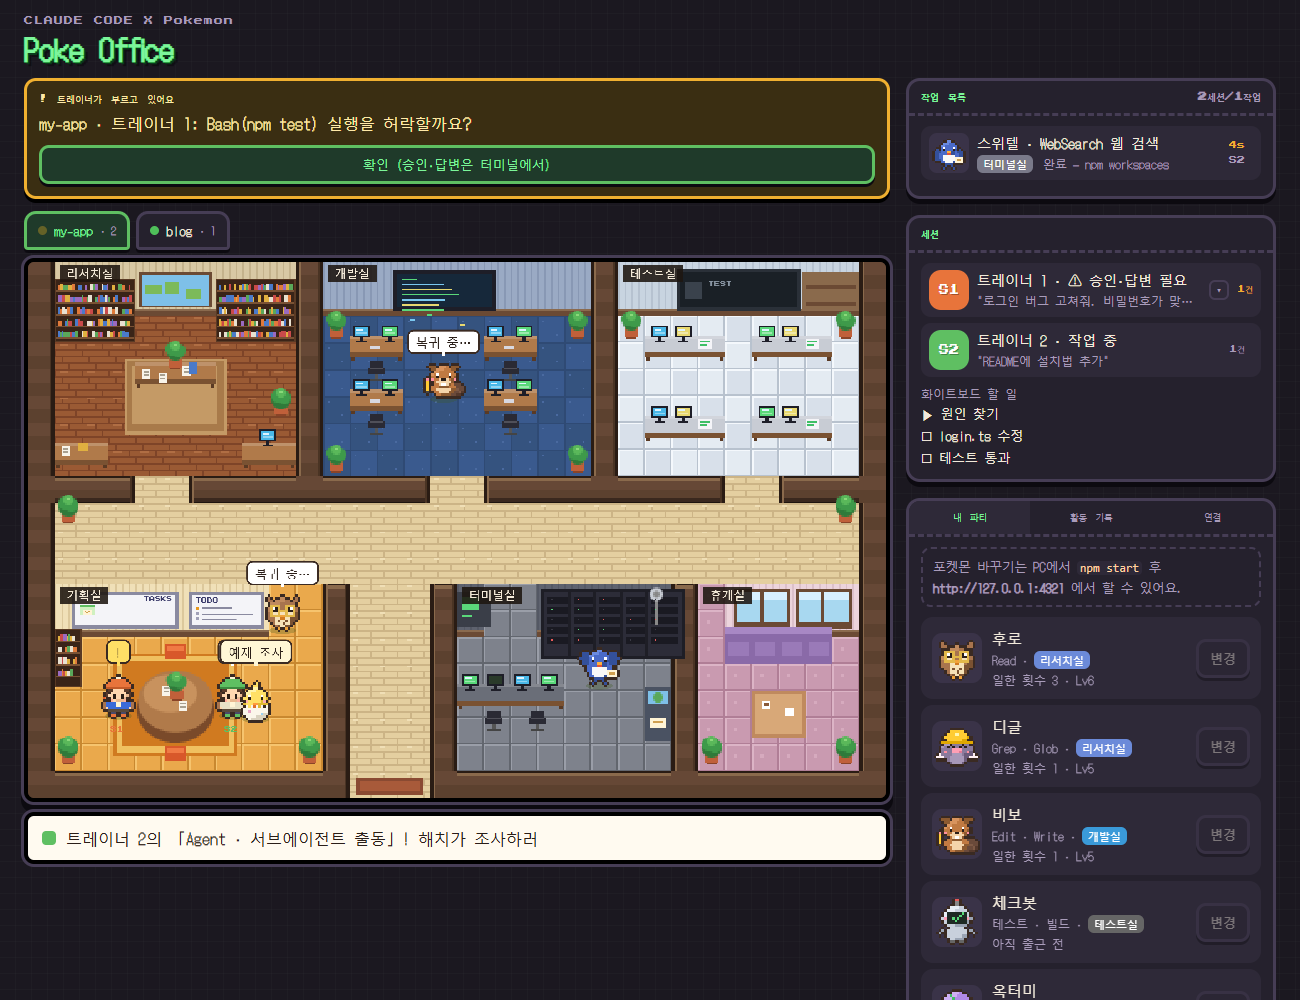
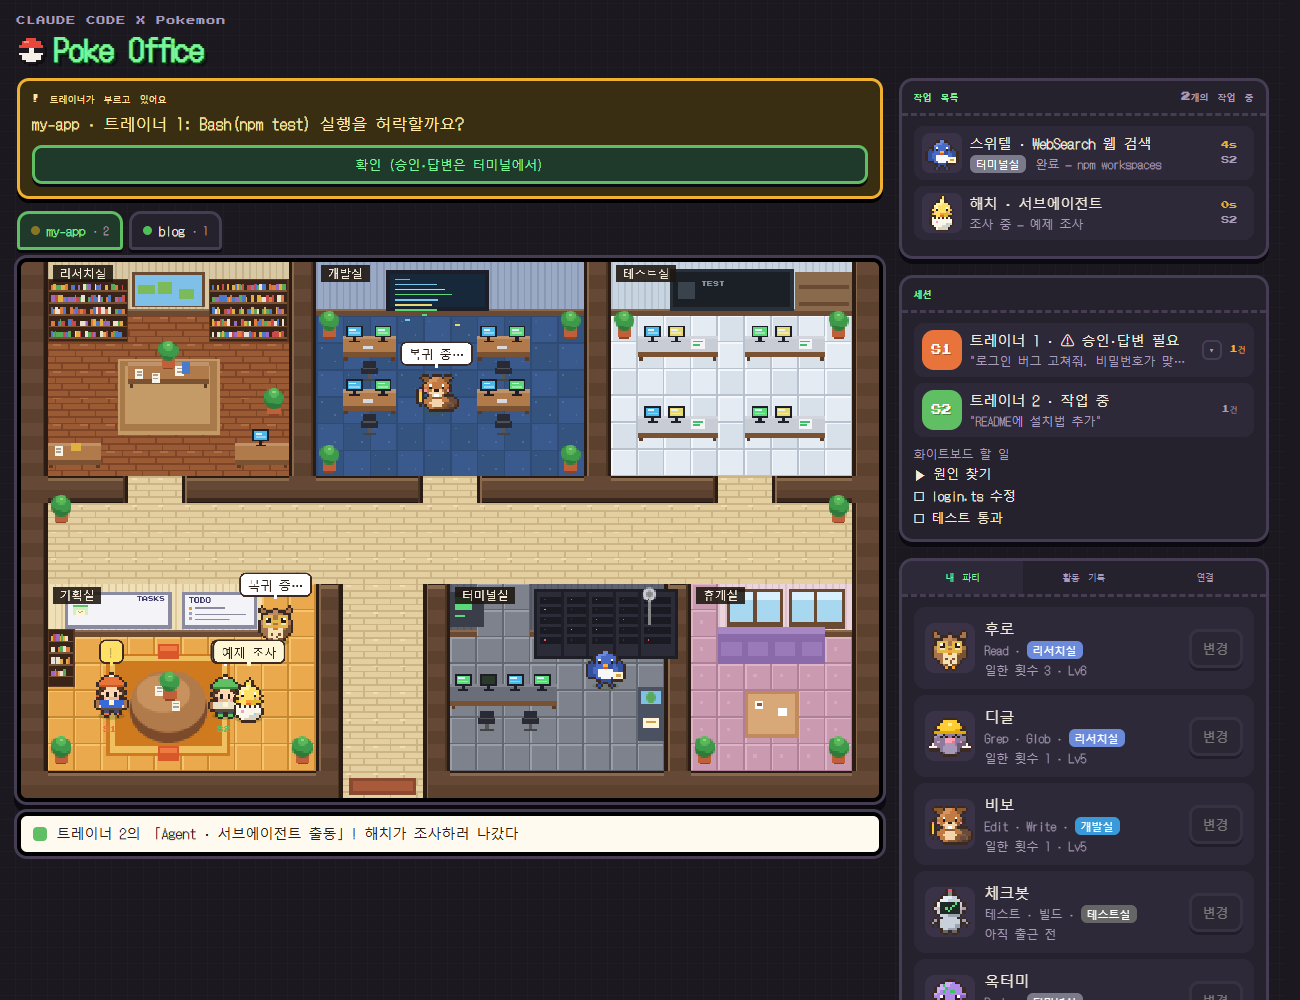
feat: room hover cursor and tooltips, title Poké Ball, simpler status text, fix layout shift
- Hovering a room highlights it with a blinking corner cursor and shows a game-style tooltip
- Dialog strip uses a smaller font and shows the more button as soon as text overflows
- Reserve scrollbar space so opening popups or switching tabs no longer shifts the page
- Flat tab buttons no longer move when pressed
- Remove the LIVE chip, add a Poké Ball before the title
- Shorter wording: 'N개의 작업 중', '세션 ID', sprite status only

Changed region(s): [[0.0, 0.0, 0.9846, 1.0], [0.0923, 0.465, 0.1538, 0.527]]

diff --git a/index.html b/index.html
@@ -9,6 +9,7 @@
 <style>
 :root{--bg:#1b1820;--panel:#25212d;--panel2:#2e2938;--line:#463d55;--ink:#f2eadb;--quiet:#a99cba;--mint:#7cf59a;--leaf:#5fbf62;--amber:#f0b030;--red:#ff6b6b;--blue:#6cc4ff;--shadow:#0c0a10;}
 *{box-sizing:border-box}
+html{scrollbar-gutter:stable}
 html,body{margin:0;background:var(--bg);color:var(--ink);font-family:'DotGothic16',system-ui,-apple-system,'Apple SD Gothic Neo','Noto Sans KR',sans-serif}
 body{background:repeating-linear-gradient(0deg,transparent 0 15px,rgba(255,255,255,.02) 15px 16px),repeating-linear-gradient(90deg,transparent 0 15px,rgba(255,255,255,.02) 15px 16px),var(--bg)}
 .wrap{max-width:1280px;margin:0 auto;padding:16px 14px 40px}
@@ -16,6 +17,7 @@ header{display:flex;align-items:flex-end;justify-content:space-between;gap:12px;
 .kicker{font-family:'Press Start 2P',monospace;font-size:9px;color:var(--quiet);letter-spacing:1px}
 h1{margin:6px 0 0;font-size:30px;line-height:1.15;font-weight:900;color:var(--mint);text-shadow:2px 2px 0 #0b3a1c,4px 4px 0 rgba(0,0,0,.4)}
 h1 span{color:var(--ink)}
+h1 .pball{width:.95em;height:.95em;margin-right:.3em;vertical-align:-.1em;filter:drop-shadow(2px 2px 0 rgba(0,0,0,.4))}
 .chip{font-family:'Press Start 2P',monospace;font-size:9px;padding:7px 10px;border:3px solid var(--line);border-radius:10px;background:var(--panel);color:var(--quiet)}
 .chip.live{color:var(--mint);border-color:var(--mint)}
 .grid{display:grid;grid-template-columns:minmax(0,1fr) 370px;gap:16px;align-items:start}
@@ -26,7 +28,7 @@ h1 span{color:var(--ink)}
 .dot{width:9px;height:9px;border-radius:50%;background:#bbb;display:inline-block}
 .dot.work{background:#4fbf5a}.dot.wait{background:#f0b020;animation:pulse 1s infinite}.dot.idle{background:#b8a890}
 @keyframes pulse{50%{opacity:.3}}
-#dlgBox{display:flex;align-items:center;gap:10px;min-width:0;margin-top:10px;min-height:52px;padding:10px 14px;background:#fffaf0;color:#2a1e18;border:4px solid #000;border-radius:10px;box-shadow:0 0 0 3px var(--line);font-size:16px;line-height:1.4}
+#dlgBox{display:flex;align-items:center;gap:10px;min-width:0;margin-top:10px;min-height:44px;padding:8px 12px;background:#fffaf0;color:#2a1e18;border:4px solid #000;border-radius:10px;box-shadow:0 0 0 3px var(--line);font-size:14px;line-height:1.4}
 #dlgDot{flex:none;width:14px;height:14px;border-radius:4px;background:transparent}
 #dlgText{flex:1;min-width:0;overflow:hidden;text-overflow:ellipsis;white-space:nowrap}
 #dlgBox .more{color:#6b5a48;border-color:#c8b89a}
@@ -35,6 +37,7 @@ canvas#office{display:block;width:100%;height:auto;image-rendering:pixelated;tou
 button{font-family:inherit;font-size:13px;color:var(--ink);background:var(--panel);border:3px solid var(--line);border-radius:10px;padding:7px 11px;cursor:pointer;box-shadow:0 3px 0 var(--shadow)}
 button:hover{border-color:#c4a874}
 button:active{transform:translateY(2px);box-shadow:0 1px 0 var(--shadow)}
+.tabs button:active,.more:active{transform:none}
 button.on{background:#1f3a2a;border-color:var(--leaf);color:var(--mint)}
 button.px{font-family:'Press Start 2P',monospace;font-size:9px}
 .panel{background:var(--panel);border:3px solid var(--line);border-radius:14px;box-shadow:0 5px 0 var(--shadow);overflow:hidden}
@@ -102,6 +105,9 @@ pre{font-size:11.5px;background:#14111a;border-radius:10px;padding:8px;overflow:
 .dexgrid button{display:flex;flex-direction:column;align-items:center;gap:1px;padding:6px 4px;font-size:12px;box-shadow:0 2px 0 var(--shadow)}
 .dexgrid button img{width:64px;height:64px;image-rendering:pixelated}
 .dexgrid .no{font-family:'Press Start 2P',monospace;font-size:7px;color:var(--quiet)}
+.tip{position:fixed;z-index:40;pointer-events:none;max-width:260px;padding:6px 10px;background:#fffaf0;color:#2a1e18;border:3px solid #2a1e18;border-radius:6px;box-shadow:0 0 0 2px #fffaf0,0 0 0 5px #4a4a5e,0 6px 0 5px rgba(0,0,0,.35);font-size:12.5px;line-height:1.5}
+.tip[hidden]{display:none}.tip b{font-size:13.5px}.tip .st{display:inline-block;margin-left:6px;padding:0 5px;border-radius:4px;font-size:11px;color:#fff}
+.tip small{display:block;margin-top:2px;color:#8a7a68;font-size:11px}
 footer{margin-top:18px;color:var(--quiet);font-size:12px;line-height:1.6}
 .speed{display:flex;gap:4px}
 </style>
@@ -111,9 +117,8 @@ footer{margin-top:18px;color:var(--quiet);font-size:12px;line-height:1.6}
   <header>
     <div>
       <div class="kicker">CLAUDE CODE X Pokemon</div>
-      <h1>Poke Office</h1>
+      <h1><svg class="pball" viewBox="0 0 12 12" shape-rendering="crispEdges" aria-hidden="true"><path fill="#1b1820" d="M4 0h4v1h2v1h1v2h1v4h-1v2h-1v1h-2v1H4v-1H2v-1H1V8H0V4h1V2h1V1h2z"/><path fill="#e8473b" d="M4 1h4v1h2v2h1v1H1V4h1V2h2z"/><path fill="#ff8a7a" d="M3 2h2v1H3z"/><path fill="#f4f0e8" d="M1 7h10v1h-1v2H8v1H4v-1H2V8H1z"/><path fill="#1b1820" d="M1 5h10v2H1z"/><path fill="#f4f0e8" d="M5 5h2v2H5z"/></svg>Poke Office</h1>
     </div>
-    <div class="chip" id="modeChip" style="display:none">LIVE</div>
   </header>
 
   <div class="grid">
@@ -174,6 +179,7 @@ footer{margin-top:18px;color:var(--quiet);font-size:12px;line-height:1.6}
       </section>
     </div>
   </div>
+  <div class="tip" id="tip" hidden></div>
   <div class="modal" id="modal" hidden><div class="mbox" role="dialog" aria-modal="true"><div class="mhead"><b id="mTitle"></b><button id="mClose" title="닫기">✕</button></div><div id="mExtra"></div><div class="mbody" id="mBody"></div></div></div>
   <footer>기본 몬스터·트레이너·사무실 그림은 이 프로젝트용 오리지널 픽셀 아트입니다. 포켓몬 스프라이트는 내려받은 앱에서 사용자가 직접 받아 이 PC에서만 씁니다.</footer>
 </div>
@@ -439,8 +445,16 @@ function drawMap(){buildGrid();
 }
 // 방 이름표: 늘리지 않고 화면 해상도로 직접 그려서 글자가 선명해요
 function drawLabels(){ctx.font=`${7*S}px "DotGothic16", sans-serif`;ctx.textBaseline='alphabetic';
-  Object.values(ROOMS).forEach(r=>{if(!r.ko)return;const x=px(r.x0*T+3),y=px((r.y0-r.face)*T+2),w=ctx.measureText(r.ko).width+8*S;
-    ctx.fillStyle='rgba(30,22,16,.88)';ctx.fillRect(x,y,w,10*S);ctx.fillStyle='#f4ead8';ctx.fillText(r.ko,x+4*S,y+8*S);});}
+  Object.entries(ROOMS).forEach(([k,r])=>{if(!r.ko)return;const x=px(r.x0*T+3),y=px((r.y0-r.face)*T+2),w=ctx.measureText(r.ko).width+8*S,on=k===hoverRoom;
+    ctx.fillStyle=on?'#f8d030':'rgba(30,22,16,.88)';ctx.fillRect(x,y,w,10*S);ctx.fillStyle=on?'#2a1e18':'#f4ead8';ctx.fillText(r.ko,x+4*S,y+8*S);});}
+// 마우스를 올린 방: 살짝 밝게 + 모서리 선택 커서가 깜빡깜빡 (포켓몬 메뉴 커서 느낌)
+let hoverRoom=null;
+function drawHover(){if(!hoverRoom||grab)return;const r=ROOMS[hoverRoom];const x0=r.x0*T,y0=(r.y0-r.face)*T,x1=(r.x1+1)*T,y1=(r.y1+1)*T;
+  ctx.fillStyle='rgba(255,248,220,.10)';ctx.fillRect(px(x0),px(y0),(x1-x0)*S,(y1-y0)*S);
+  const k=Math.floor(now.t/260)%2?1:3,L=9;
+  for(const [cx,cy,sx,sy] of [[x0,y0,1,1],[x1,y0,-1,1],[x0,y1,1,-1],[x1,y1,-1,-1]]){const ax=cx+sx*k,ay=cy+sy*k;
+    for(const [col,o] of [['#2a1e18',1],['#fff',0]]){ctx.fillStyle=col;const ox=ax+sx*o,oy=ay+sy*o;
+      ctx.fillRect(px(Math.min(ox,ox+sx*L)),px(Math.min(oy,oy+sy*2)),L*S,2*S);ctx.fillRect(px(Math.min(ox,ox+sx*2)),px(Math.min(oy,oy+sy*L)),2*S,L*S);}}}
 function animMap(t){
   for(let i=0;i<5;i++)for(let j=0;j<5;j++){const on=Math.sin(t/200+i*1.3+j*2.1)>0;ctx.fillStyle=on?(j%2?'#5ad87a':'#e85a5a'):'#3a3a44';ctx.fillRect(px(19*T+2+i*15.6+6),px(12.2*T+6+j*6),S,S);}
   for(let i=0;i<3;i++){ctx.fillStyle=['#5ad87a','#7ac8f0','#e8d870'][i];ctx.fillRect(px(13.6*T+5+((t/40+i*30)%40)),px(.3*T+26+i*3),3*S,S);}
@@ -565,8 +579,8 @@ const fmtSec=ms=>{const s=Math.max(0,Math.floor(ms/1000));return s<60?s+'s':Math
 function openModal(title,content,{cls='',extra=null}={}){const m=$('modal');m.className='modal '+cls;$('mTitle').textContent=title;
   const x=$('mExtra');x.innerHTML='';if(extra)x.appendChild(extra);const b=$('mBody');b.innerHTML='';b.scrollTop=0;
   if(typeof content==='string'){const pre=document.createElement('pre');pre.className='mtext';pre.textContent=content;b.appendChild(pre);}else b.appendChild(content);
-  m.hidden=false;document.body.style.overflow='hidden';}
-function closeModal(){$('modal').hidden=true;document.body.style.overflow='';pickRole=null;}
+  m.hidden=false;document.documentElement.style.overflow='hidden';}
+function closeModal(){$('modal').hidden=true;document.documentElement.style.overflow='';pickRole=null;}
 $('mClose').onclick=closeModal;$('modal').addEventListener('click',e=>{if(e.target.id==='modal')closeModal();});
 document.addEventListener('keydown',e=>{if(e.key==='Escape'&&!$('modal').hidden)closeModal();});
 // 잘린 글은 오른쪽 작은 ▾ 버튼 → 가운데 팝업으로 전체 보기
@@ -578,7 +592,7 @@ function fitMore(d,title,body,raw){const btn=d.querySelector('.more');if(!btn)re
 function renderSide(){renderWork();renderSessions();}
 function renderWork(){const t=towns.get(active);const el=$('workList');if(!el)return;
   const jobs=t?t.jobs:[];const subs=t?t.mons.filter(m=>m.role==='sub'&&m.state==='subwork'):[];
-  $('workSum').textContent=t?`${t.trainers.size}세션/${jobs.length+subs.length}작업`:'';
+  {const n=jobs.length+subs.length;$('workSum').textContent=n?`${n}개의 작업 중`:'';}
   if(!jobs.length&&!subs.length){el.innerHTML=`<div class="empty">지금 작업 중인 포켓몬이 없어요.<br><span style="font-size:12px">(Claude Code가 동작할 경우<br>자동으로 포켓몬이 일을 시작해요.)</span></div>`;return;}
   el.innerHTML='';
   const row=(img,a,b,room,since,tr,state,full)=>{const d=document.createElement('div');d.className='wrow';
@@ -596,7 +610,7 @@ function renderSessions(){const t=towns.get(active);const el=$('sessList');if(!e
     const st=tr.lounge&&tr.state==='idle'?'휴게실 · 내 차례':({idle:'대기 중',think:'작업 중',pin:'할 일 정리',wait:'⚠ 승인·답변 필요',sleep:'쉬는 중',arrive:'출근 중',leave:'퇴근 중'}[tr.state]||tr.state);
     const jobs=t.jobs.filter(j=>j.tr===tr).length;
     c.innerHTML=`<div class="sw" style="width:40px;height:40px;background:${HATS[tr.color][0]}">S${tr.no}</div><div class="txt"><div class="a"></div><div class="b"></div></div><button class="more" hidden title="더보기">▾</button><div class="tm" style="color:${tr.state==='wait'?'var(--amber)':'var(--quiet)'}">${jobs?jobs+'건':''}</div>`;
-    c.querySelector('.a').textContent=`${tname(tr)} · ${st}`;c.querySelector('.b').textContent=tr.prompt?`"${tr.prompt}"`:`세션 ${String(tr.id).slice(0,8)}`;el.appendChild(c);fitMore(c,`${tname(tr)} · ${st}`,tr.prompt?`보낸 프롬프트\n\n${tr.prompt}`:'',tr.prompt);});
+    c.querySelector('.a').textContent=`${tname(tr)} · ${st}`;c.querySelector('.b').textContent=tr.prompt?`"${tr.prompt}"`:`세션 ID: ${String(tr.id).slice(0,8)}`;el.appendChild(c);fitMore(c,`${tname(tr)} · ${st}`,tr.prompt?`보낸 프롬프트\n\n${tr.prompt}`:'',tr.prompt);});
   if(t.todos.length){const d=document.createElement('div');d.style.cssText='margin-top:8px;font-size:13px;line-height:1.7';d.innerHTML='<div class="muted" style="font-size:12px">화이트보드 할 일</div>';
     t.todos.forEach(td=>{const x=document.createElement('div');x.textContent=(td.s==='done'?'☑ ':td.s==='doing'?'▶ ':'☐ ')+td.text;if(td.s==='done')x.style.color='var(--quiet)';d.appendChild(x);});el.appendChild(d);}}
 setInterval(()=>{if(!paused)renderWork();},1000);
@@ -631,11 +645,8 @@ async function detectSource(){
     if(r.ok){const by=new Map();(await r.text()).split('\n').slice(1).forEach(l=>{const [id,lang,name]=l.split(',');if(!id||!name)return;const e=by.get(+id)||{id:+id,ko:'',en:''};if(lang==='3')e.ko=name;if(lang==='9')e.en=name;by.set(+id,e);});
       SRC.names=[...by.values()].sort((a,b)=>a.id-b.id);SRC.mode='remote';SRC.base='https://raw.githubusercontent.com/PokeAPI/sprites/master/sprites/pokemon/';}}catch{}}
   const el=$('srcState');
-  if(SRC.mode==='server')el.innerHTML=`<b style="color:var(--mint)">스프라이트 준비됨</b> · 이 PC에 받은 포켓몬 ${SRC.names?SRC.names.length:'?'}종. 역할 옆 <b>변경</b>으로 고르세요.`;
-  else if(SRC.mode==='remote')el.innerHTML='<b style="color:var(--mint)">GitHub에서 바로 불러오는 중</b> · 역할 옆 <b>변경</b>으로 고르세요.';
-  else if(SRC.server)el.innerHTML='<b style="color:var(--amber)">서버는 켜졌지만 스프라이트가 없어요.</b> 터미널에서 <code>npm run setup</code> 을 실행한 뒤 이 페이지를 새로고침하세요. 원인은 <code>npm run doctor</code> 로 볼 수 있어요.';
-  else if(location.protocol==='file:')el.innerHTML='<b style="color:var(--amber)">파일을 직접 열었어요.</b> 터미널에서 <code>npm start</code> 후 <b>http://127.0.0.1:4321</b> 로 열어야 포켓몬을 고를 수 있어요.';
-  else el.innerHTML='포켓몬 바꾸기는 PC에서 <code>npm start</code> 후 <b>http://127.0.0.1:4321</b> 에서 할 수 있어요.';}
+  el.innerHTML=SRC.mode!=='none'?'<b style="color:var(--mint)">스프라이트 준비됨</b>':'<b style="color:var(--red)">스프라이트를 불러오지 못했어요</b>';
+  el.style.display=SRC.mode!=='none'||SRC.server?'':'none';} // 서버 없이 연 데모 화면에서는 숨김
 const spriteUrl=(id,sh)=>SRC.base+(sh?'shiny/':'')+id+'.png';
 function buildPack(){const el=$('teamList');if(!el)return;el.innerHTML='';[...ROLES,'trainer'].forEach(r=>{const row=document.createElement('div');row.className='card'+(selected===r?' sel':'');
   const c=document.createElement('canvas');c.width=48;c.height=48;thumb(c,r==='trainer'?trainerImg(0,0):monImg(r,0));row.appendChild(c);
@@ -708,8 +719,8 @@ demoSession('blog','sess-b1',async({E,tool})=>{await sleep(2500);
 // ───────── live (SSE from local server)
 function connectLive(){if(!SRC.server)return;const es=new EventSource('stream');
   es.onopen=()=>{if(!LIVE){LIVE=true;towns.clear();active=null;renderTowns();renderSide();}
-    $('liveState').innerHTML='<b style="color:var(--mint)">● 로컬 서버에 연결됨</b>';$('modeChip').style.display='';$('modeChip').textContent='LIVE';$('modeChip').classList.add('live');demoOn=false;};
-  es.onerror=()=>{$('liveState').textContent='서버 연결이 끊겼어요. 다시 시도하는 중…';$('modeChip').textContent='OFFLINE';$('modeChip').classList.remove('live');};
+    $('liveState').innerHTML='<b style="color:var(--mint)">● 로컬 서버에 연결됨</b>';demoOn=false;};
+  es.onerror=()=>{$('liveState').textContent='서버 연결이 끊겼어요. 다시 시도하는 중…';};
   es.onmessage=e=>{let ev;try{ev=JSON.parse(e.data);}catch{return;}handleEvent(ev);};}
 
 // ───────── render
@@ -757,9 +768,10 @@ function moveFx(r,o,t){const x=o.x,y=o.y;const ph=t/120;
   case'web':ctx.fillStyle='#fff4d6';ctx.fillRect(px(x-14-((t/8)%30)),px(y-22+Math.sin(ph)*2),5*S,3*S);break;
   case'mcp':ctx.strokeStyle='#ffcf3a';ctx.lineWidth=S;ctx.beginPath();ctx.moveTo(px(x),px(y-24));ctx.lineTo(px(x+4),px(y-28));ctx.lineTo(px(x+1),px(y-29));ctx.lineTo(px(x+5),px(y-34));ctx.stroke();break;}}
 // dialog strip
-const dlg={text:'',shown:0,color:null};function dlgSet(text,tr){dlg.text=text||'';dlg.shown=0;dlgShownPrev=-1;dlg.color=tr?HATS[tr.color][0]:null;}
-let dlgShownPrev=-1;function dialog(dt){dlg.shown=Math.min(dlg.text.length,dlg.shown+dt/22);if(dlg.shown>=90)dlg.shown=dlg.text.length;const n=Math.floor(dlg.shown);if(n!==dlgShownPrev){dlgShownPrev=n;const el=$('dlgText');el.textContent=dlg.text.slice(0,n);$('dlgDot').style.background=dlg.color||'transparent';
-  if(n>=dlg.text.length)$('dlgMore').hidden=!(el.scrollWidth>el.clientWidth+1);else $('dlgMore').hidden=true;}}
+const dlg={text:'',shown:0,color:null};function dlgSet(text,tr){dlg.text=text||'';dlg.shown=0;dlgShownPrev=-1;dlg.color=tr?HATS[tr.color][0]:null;
+  // 전체 글이 한 줄에 다 들어가는지 미리 재서, 넘치면 ▾ 버튼을 처음부터 보여줘요
+  const el=$('dlgText');el.textContent=dlg.text;$('dlgMore').hidden=false;dlg.over=el.scrollWidth>el.clientWidth+1;el.textContent='';$('dlgMore').hidden=!dlg.over;}
+let dlgShownPrev=-1;function dialog(dt){dlg.shown=Math.min(dlg.text.length,dlg.shown+dt/22);if(dlg.shown>=90)dlg.shown=dlg.text.length;const n=Math.floor(dlg.shown);if(n!==dlgShownPrev){dlgShownPrev=n;const el=$('dlgText');el.textContent=dlg.text.slice(0,n);$('dlgDot').style.background=dlg.color||'transparent';}}
 $('dlgMore').onclick=()=>openModal('대화',dlg.text);
 let last=performance.now();
 function frame(ts){TS=Math.min(1.9,Math.max(1,900/(cv.clientWidth||900)));const raw=Math.max(0,Math.min(50,ts-last));last=ts;const dt=paused?0:raw*speed;now.t+=dt;
@@ -770,7 +782,7 @@ function frame(ts){TS=Math.min(1.9,Math.max(1,900/(cv.clientWidth||900)));const 
   const town=towns.get(active);
   ctx.drawImage(map,0,0,BW*S,BH*S);animMap(now.t);
   if(town){
-    drawBoards(town);drawLabels();
+    drawBoards(town);drawHover();drawLabels();
     const ents=[];
     town.mons.forEach(mo=>ents.push({y:mo.y,draw:()=>{const busy=mo.state==='work'||mo.state==='notice';const moving=mo.path.length>0;
       const f=mo.grabbed?Math.floor(now.t/70)%2:busy?Math.floor(now.t/140)%2:moving?Math.floor(now.t/160)%2:Math.floor(now.t/700)%2;const cu=!!custom[mo.role];const sc=mo.helper&&mo.role!=='sub'?.82:1;
@@ -841,7 +853,20 @@ function grabMove(p){const o=grab.o;o.x=Math.max(T,Math.min(BW-T,p.x));o.y=Math.
 let downAt=null;
 cv.addEventListener('pointerdown',e=>{const p=toGame(e);const o=hitEntity(p);if(!o){downAt={p,x:e.clientX,y:e.clientY};return;}e.preventDefault();try{cv.setPointerCapture(e.pointerId);}catch{}
   grab={o,p,on:false,home:{x:o.x,y:o.y},t:setTimeout(grabStart,160)};});
-cv.addEventListener('pointermove',e=>{const p=toGame(e);if(!grab){cv.style.cursor=hitEntity(p)?'grab':roomAt(p)?'pointer':'';return;}
+function showTip(e,html){const t=$('tip');if(!html){t.hidden=true;return;}t.innerHTML=html;t.hidden=false;
+  const w=t.offsetWidth,h=t.offsetHeight;let x=e.clientX+16,y=e.clientY+18;if(x+w>innerWidth-8)x=e.clientX-w-12;if(y+h>innerHeight-8)y=e.clientY-h-12;t.style.left=x+'px';t.style.top=y+'px';}
+const esc=v=>String(v).replace(/[&<>"]/g,c=>({'&':'&amp;','<':'&lt;','>':'&gt;','"':'&quot;'}[c]));
+function tipFor(p){const t=towns.get(active);const o=hitEntity(p);
+  if(o&&o.role){const j=o.job;const st={work:'일하는 중',go:'가는 중',return:'복귀 중',cheer:'완료!',sad:'실패…',subwork:'조사 중',wander:'산책 중',rest:'쉬는 중',nap:'낮잠 중'}[o.state]||'';
+    return `<b>${esc(nameOf(o.role))}</b>${st?`<span class="st" style="background:#5a7ad0">${st}</span>`:''}${j?`<br>${esc(j.tool||'')} ${esc(j.label||'서브에이전트')} — ${esc(String(j.detail||'').slice(0,40))}`:''}<small>꾹 눌러서 잡기</small>`;}
+  if(o)return `<b>${esc(tname(o))}</b><span class="st" style="background:${HATS[o.color][0]}">${o.lounge&&o.state==='idle'?'내 차례':({idle:'대기 중',think:'작업 중',pin:'할 일 정리',wait:'승인·답변 필요',sleep:'쉬는 중'}[o.state]||'')}</span>${o.prompt?`<br>"${esc(o.prompt.slice(0,40))}${o.prompt.length>40?'…':''}"`:''}<small>꾹 눌러서 잡기</small>`;
+  const k=roomAt(p);if(!k)return '';const r=ROOMS[k];
+  const jobs=t?t.jobs.filter(j=>HAB[j.role]&&HAB[j.role].room===k).length:0;const trs=t?[...t.trainers.values()].filter(tr=>inRoom(k,tr)).length:0;
+  let st=jobs?`작업 ${jobs}건 진행 중`:'조용해요';if(trs)st+=` · 트레이너 ${trs}명`;
+  if(k==='test'&&t&&t.lastTest)st+=` · 마지막 ${t.lastTest.label} ${t.lastTest.ok?'통과':'실패'}`;
+  return `<b>${r.ko}</b><span class="st" style="background:${r.tag}">${r.stage}</span><br>${esc(ROOM_LABEL_TOOLS[k]||'')}<br>${st}<small>클릭하면 자세히 보기</small>`;}
+cv.addEventListener('pointerleave',()=>{hoverRoom=null;showTip(null,'');});
+cv.addEventListener('pointermove',e=>{const p=toGame(e);if(!grab){const o=hitEntity(p);hoverRoom=o?null:(roomAt(p)||null);cv.style.cursor=o?'grab':hoverRoom?'pointer':'';showTip(e,tipFor(p));return;}showTip(null,'');
   grab.p=p;if(!grab.on&&Math.hypot(p.x-grab.home.x,p.y-grab.home.y+12)>4)grabStart();if(grab.on)grabMove(p);});
 function grabEnd(){if(!grab)return;clearTimeout(grab.t);const {o,home,on,p}=grab;grab=null;cv.style.cursor='';if(!on){openRoomAt(p);return;}o.grabbed=false;
   if(!walkable(Math.floor(o.x/T),Math.floor((o.y-1)/T))){o.x=home.x;o.y=home.y;}

diff --git a/README.md b/README.md
@@ -161,6 +161,7 @@ Node·git·스프라이트·서버·훅 연결을 차례로 확인하고, 문제
 
 ## 화면 조작
 
+- 방에 마우스를 올리면 설명이 뜨고, **클릭하면** 그 방에서 지금 일어나는 일을 팝업으로 보여줘요
 - 트레이너나 포켓몬을 **꾹 눌러 잡고** 옮길 수 있어요. 잡힌 동안 바둥거리고, 놓으면 하던 일로 걸어 돌아가요
 
 ## 구조
